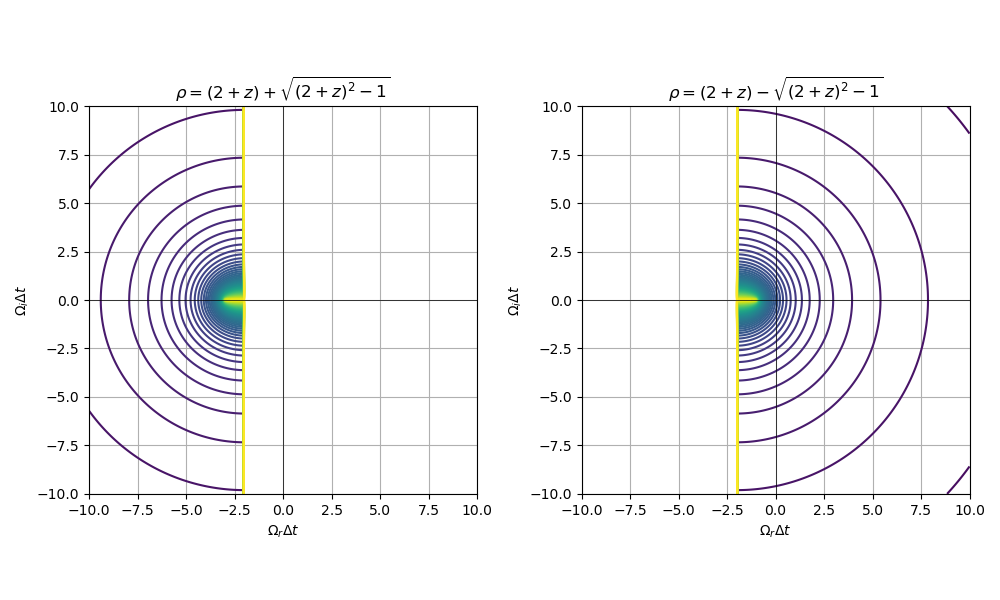
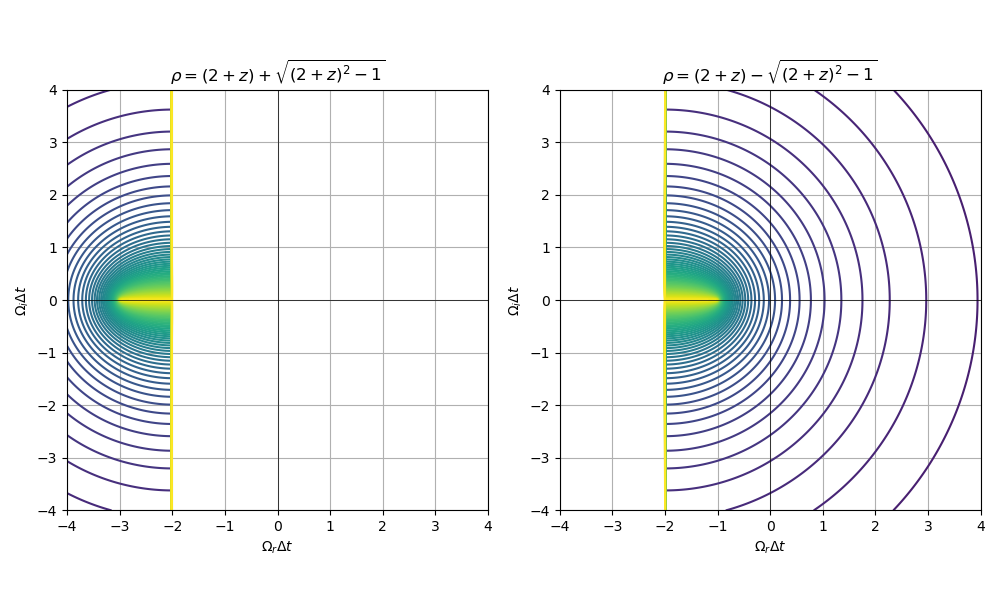
update README.md

diff --git a/p2/main.py b/p2/main.py
@@ -170,6 +170,32 @@ if __name__ == "__main__":
     fig, axes = plt.subplots(1, 4, figsize=(16, 4))
     axes = axes.ravel()
 
+    axes[0].plot(us_fe[:, 0], ts, "r", label="Forward Euler")
+    axes[0].set_ylabel("time")
+    axes[0].set_xlabel("$x(t)$")
+    axes[0].set_title(r"Forward Euler")
+
+    axes[1].plot(us_se[:, 0],ts, "g", label="Symplectic Euler")
+    axes[1].set_ylabel("time")
+    axes[1].set_xlabel("$x(t)$")
+    axes[1].set_title(r"Symplectic Euler")
+
+    axes[2].plot(us_rk[:, 0], ts, "b", label="RK4")
+    axes[2].set_ylabel("time")
+    axes[2].set_xlabel("$x(t)$")
+    axes[2].set_title(r"RK4")
+
+    axes[3].plot(us_gt[:, 0], ts, "k", label="Analytic solution")
+    axes[3].set_ylabel("time")
+    axes[3].set_xlabel("$x(t)$")
+    axes[3].set_title(r"Analytic solution")
+
+    fig.tight_layout()
+    fig.savefig("./p2_response_xt.png")
+
+    fig, axes = plt.subplots(1, 4, figsize=(16, 4))
+    axes = axes.ravel()
+
     axes[0].plot(us_fe[:, 1], us_fe[:,0], "r", label="Forward Euler")
     axes[0].set_xlabel("$v(t)$")
     axes[0].set_ylabel("$x(t)$")

diff --git a/p1/main.py b/p1/main.py
@@ -37,6 +37,10 @@ if __name__ == "__main__":
     fig.savefig("./p1_a.png")
 
     # Problem (b). Explicit BDF for second-order and third order method
+    x = np.linspace(-4, 4, 400)
+    y = np.linspace(-4, 4, 400)
+    X, Y = np.meshgrid(x, y)
+    Z = X + 1j * Y
     bdf_2nd_p, bdf_2nd_m = BDF_2nd(Z)
 
     fig, axes = plt.subplots(1, 2, figsize=(10, 6))
@@ -104,7 +108,7 @@ if __name__ == "__main__":
     axes[2].axvline(0, color="k", lw=0.5)
     axes[2].set_xlabel(r"$\Omega_r \Delta t$")
     axes[2].set_ylabel(r"$\Omega_i \Delta t$")
-    axes[2].set_title(r"\rho_3(z)")
+    axes[2].set_title(r"$\rho_3(z)$")
     axes[2].grid(True)
     axes[2].set_aspect("equal")
 

diff --git a/README.md b/README.md
@@ -9,11 +9,19 @@
 </script>
 
 ## Problem 1.
+### Problem 1.a
+The derivation of the linear stability regime is derived and noted on HW_03_prob_1_3.pdf. We plot the linear stability diagram of the two-stage implict Runge-Kutta method which is represented as below.
+
 <div>
     <p float = 'left'>
         <img src="./p1_a.png"  width="50%">
     </p>
 </div>
+
+The above figure shows that the two-stage implicit Runge-Kutta method has A-stability. In practice, however, the computation of k1 and k2 requires high computational cost if the problem has nonlinear behavior or other formula that is difficult to be computed compared to the linear case.
+
+### Problem 1.b
+The derivation of the linear stability regime for 2nd order and 3rd order of the explicit analogues of the Backward Differentiation Forumlas are noted on HW_03_prob_1_3.pdf. For the 2nd order case, we use the forward difference method with 3-points for approximating the time derivative of u, whereas we utilize 4-points for the approximation of the 3rd order case. The below figure depicts the linear stability regime of the 2nd order method, where the two different roots $\rho = \frac{u_{n+1}}{u_n}$ are obtained by solving the modal equation.
 
 <div>
     <p float = 'left'>
@@ -21,6 +29,7 @@
     </p>
 </div>
 
+For the 3rd order case, we employ np.roots function to get 3 different roots of the ratio and the result is given as below.
 <div>
     <p float = 'left'>
         <img src="./p1_b_3rd.png"  width="50%">
@@ -28,12 +37,16 @@
 </div>
 
 ## Problem 2.
+Since this system is forced harmonic oscillator, the phase portrait should look like closed circle but move along the x-axis due to the external periodic force. The exact solution is given as $x(t) = \frac{F_m}{w^2 - w_f^2} (cos(w_f t) - cos(wt))$. There are two different cosine function with different frequencies. The first term is related to the forced harmonic oscilllation and the second term is related to natural frequncey. The first term has lower frequency and corresponds to the envelope of the graph for the system response The second term has higher frequency and consists of the vibration inside of the envelope of the graph. We can get the system response, phase portrait and $L_2$ error compared to the exact solution for each numerical method as below.
+
+### Phase portrait
 <div>
     <p float = 'left'>
         <img src="./p2_phase.png"  width="100%">
     </p>
 </div>
 
+### System response
 <div>
     <p float = 'left'>
         <img src="./p2_response.png"  width="100%">
@@ -42,9 +55,26 @@
 
 <div>
     <p float = 'left'>
+        <img src="./p2_response_xt.png"  width="100%">
+    </p>
+</div>
+
+### $L_2$ error
+<div>
+    <p float = 'left'>
         <img src="./p2_error.png"  width="75%">
     </p>
 </div>
+
+We can figure out that forward euler method has failed to get the accurate value since the system response has exploded and the phase portrait shows diverging spiral curve. Comparing the computation time for each process and error, we can conclude that Runge-Kutta method has the highest accuarcy but requires more computation time. However, the symplectic euler method has still higer accuracy but requires less computation time compared to the Runge-Kutta method.
+
+|  Method               | computation time            |
+| -------------         | -------------               | 
+| Forward Euler         |     6.3 x $10^{-6}$         | 
+| Symplectic Euler      |     9.6 x $10^{-6}$         | 
+| Runge-Kutta 4th order |     2.8 x $10^{-5}$         | 
+
+We additionally plot the energy of the system computed by each numerical algorithm and the error with respect to the energy. It seems that the forward euler also diverges the energy but the symplectic euler and RK4 shows that the energy of the system is vibrating, which is consistent with that of the analytic solution.
 
 <div>
     <p float = 'left'>
@@ -62,15 +92,28 @@
 The derivation of the modified energy and the proof for hamiltonian to be conserved in the second-order Verlet scheme is represented in HW_03_prob_1_3.pdf. Please see the materials.
 
 ## Problem 4.
+### Problem 4.a
+The ratio of the maximum eigenvalue and the minimum one from the Jacobian of this system at the initial time is $|\frac{\lambda_{max}}{\lambda_{min}}| = 1.52 \times 10^{31}$. Therefore, this system is stiff.
 
+### Problme 4.b
+We applied 5 different methods: RK4, DIRK2, BDF2, and DIRK2 with adaptive time-stepping and BDF2 with adaptive time-stepping. The computational result of the evolution of the sytem with RK4, DIRK2,and BDF2 is given as below.
 <div>
     <p float = 'left'>
         <img src="./p4_b.png"  width="100%">
     </p>
 </div>
 
+In the case of adaptive time-stepping with DIRK2 and BDF2, we can get the below figure. 
 <div>
     <p float = 'left'>
         <img src="./p4_b_adaptive_time.png">
     </p>
 </div>
+
+The average computational times required for each time step are given below. DIRK2 has lower computational time compared to others and we can find that DIRK2 is more efficient in terms of not only accuracy but also the computational time compared to BDF2 although they are both second order method. BDF2 is implicit but it requires more computational time. 
+
+|  Method           | computation time            |
+| -------------     | -------------               | 
+|  RK4              |     2.0 x $10^{-5}$         | 
+|  DIRK2            |     9.0 x $10^{-6}$         | 
+|  BDF2             |     4.4 x $10^{-5}$         |
